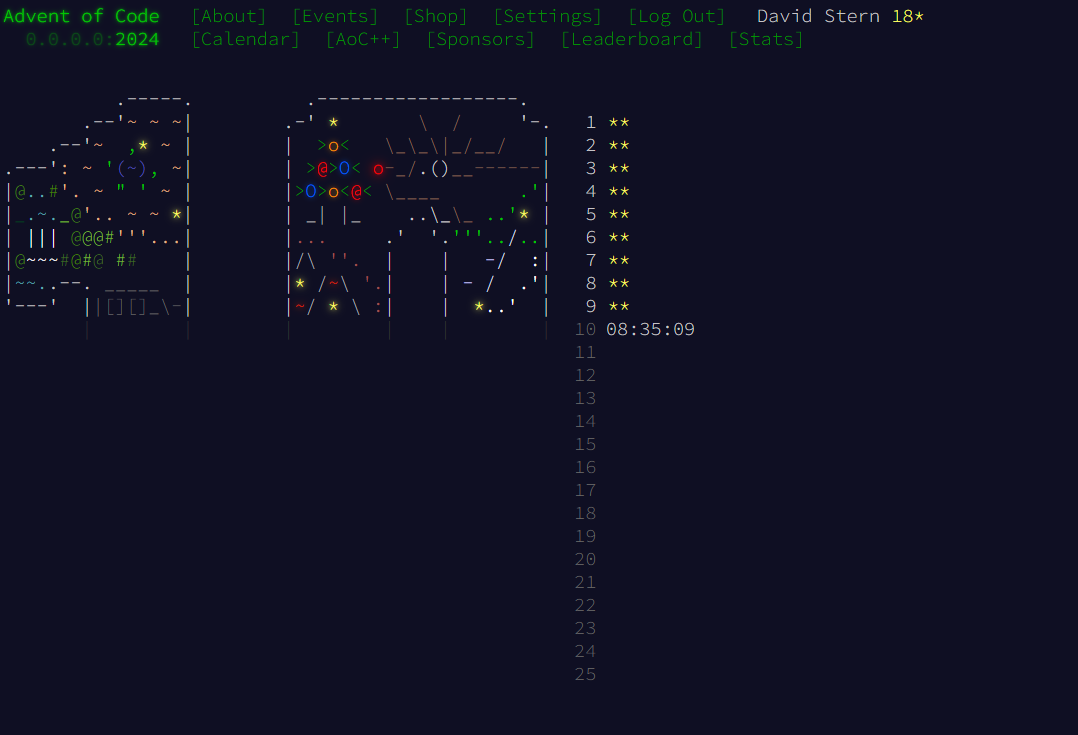
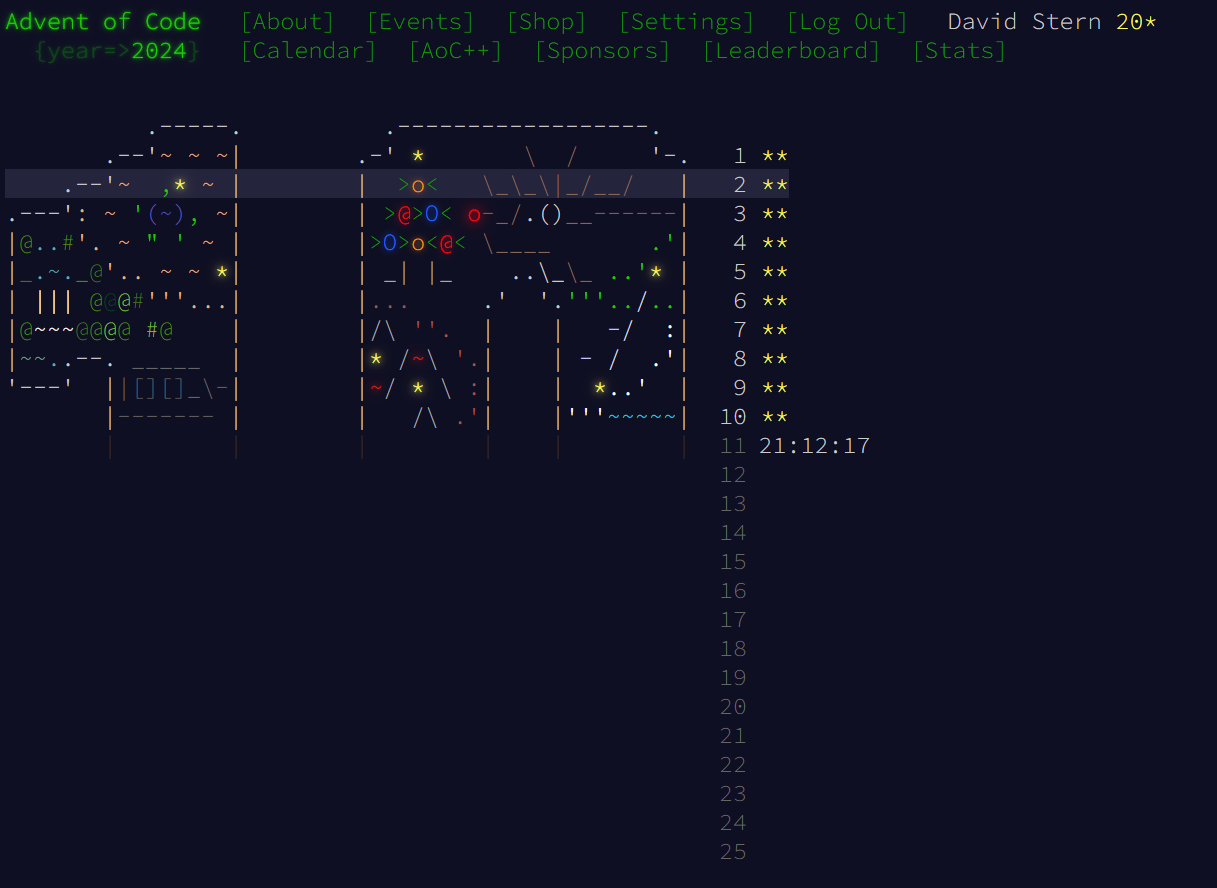
finished Day10 part2

diff --git a/src/advent_solutions/day10.rs b/src/advent_solutions/day10.rs
@@ -5,54 +5,71 @@ use super::{read_input_file, SolveAdvent};
 pub struct Day10;
 
 
+///Represents a path through the Trail Map.
+/// The unique requirement that the height always increase by 1 allows
+/// cycles to be avoided without a set to store this `TrailBlazer`'s history, 
+/// as is common in these kinds of problems.
 #[derive(Debug, Clone)]
 struct TrailBlazer {
     row: i64,
     col: i64,
-    last_number: Option<u32>,
+    ///Represents the last_height traversed on this trail path.
+    last_height: Option<u32>,
+}
+
+///The two key statistics of interest for a trail.
+struct TrailResult {
+    ///Represents the number of unique paths from height 0 to height 9
+    rank: usize,
+    ///Represents the number of different height 9's that can 
+    /// be reached starting at a given trailhead.
+    score: usize
 }
 
 impl TrailBlazer {
     fn is_inbounds(&self, trail_map: &[Vec<u32>]) -> bool {
+        //! Returns true if the `TrailBlazer` is inbounds according to its
+        //! current position
         self.row >= 0 && self.col >= 0 && self.row < trail_map.len() as i64 && self.col < trail_map[0].len() as i64
     }
-    fn clone_up(&self) -> Self {
+    fn up_one(&self) -> Self {
         TrailBlazer {
             row: self.row -1,
             col: self.col,
-            last_number: self.last_number,
+            last_height: self.last_height,
         }
     }
-    fn clone_down(&self) -> Self {
+    fn down_one(&self) -> Self {
         TrailBlazer {
             row: self.row +1,
             col: self.col,
-            last_number: self.last_number,
+            last_height: self.last_height,
         }
     }
-    fn clone_right(&self) -> Self {
+    fn right_one(&self) -> Self {
         TrailBlazer {
             row: self.row,
             col: self.col + 1,
-            last_number: self.last_number,
+            last_height: self.last_height,
         }
     }
-    fn clone_left(&self) -> Self {
+    fn left_one(&self) -> Self {
         TrailBlazer {
             row: self.row,
             col: self.col - 1,
-            last_number: self.last_number,
+            last_height: self.last_height,
         }
     }
     fn construct_all_trailheads(all_trails: &[Vec<u32>]) -> Vec<TrailBlazer> {
+        //! Build all of the starting trailheads, which are always at a height of 0.
         let mut trail_heads = Vec::new();
         for (row_number, row) in all_trails.iter().enumerate() {
             for (col_number, col) in row.iter().enumerate() {
-                if col == &0 {
+                if *col == 0 {
                     trail_heads.push(TrailBlazer {
                         row: row_number as i64,
                         col: col_number as i64,
-                        last_number: None, 
+                        last_height: None, 
                     })
                 }
             }
@@ -61,47 +78,66 @@ impl TrailBlazer {
     }
 }
 
-fn get_trailhead_score(trail_head: TrailBlazer, trail_map: &[Vec<u32>]) -> usize {
+
+fn get_trailhead_statistics(trail_head: TrailBlazer, trail_map: &[Vec<u32>]) -> TrailResult {
+    //! Starting from the passed in `trail_head`, which is at height 0, analyze the trail to generate 
+    //! a `TrailResult` using depth first search of the trail map. A successful trail goes from height 0 -> height 9,
+    //! with each trail step 1 height greater than the previous step.
     let mut trail_stack = vec![trail_head];
     let mut unique_9s_reached = HashSet::new();
+    let mut unique_trail_count = 0;
     while let Some(mut trail_blazer) = trail_stack.pop() {
         let current_trail_height = trail_map[trail_blazer.row as usize][trail_blazer.col as usize];
-        if let Some(last_height) = trail_blazer.last_number {
+        if let Some(last_height) = trail_blazer.last_height {
             if last_height + 1 != current_trail_height {
-                //Kill the path as its invalid
+                //Kill the path as its invalid (current height is not 1 greater than last height)
                 continue;
             }
         }
         if current_trail_height == 9 {
             unique_9s_reached.insert((trail_blazer.row, trail_blazer.col));
+            unique_trail_count += 1;
             continue;
         }
-        trail_blazer.last_number  = Some(current_trail_height);
+        trail_blazer.last_height  = Some(current_trail_height);
 
         let next_trail_heads = [
-            trail_blazer.clone_down(),
-            trail_blazer.clone_left(),
-            trail_blazer.clone_right(),
-            trail_blazer.clone_up()
+            trail_blazer.down_one(),
+            trail_blazer.left_one(),
+            trail_blazer.right_one(),
+            trail_blazer.up_one()
         ];
         trail_stack.extend(next_trail_heads.into_iter().filter(|trail_blazer| trail_blazer.is_inbounds(trail_map)));
 }
-unique_9s_reached.len()
+TrailResult {
+    rank: unique_trail_count,
+    score: unique_9s_reached.len()
+}
 }
 
 impl SolveAdvent for Day10 {
     fn solve_part1(path_to_file: &str) -> anyhow::Result<()> {
+        //! Sum all of the trailhead scores.
         let file_contents = read_input_file(path_to_file)?;
         let trail_map = file_contents.lines().map(|line| line.chars().flat_map(|char| char.to_digit(10)).collect::<Vec<_>>()).collect::<Vec<_>>();
         let trail_heads = TrailBlazer::construct_all_trailheads(&trail_map);
         let mut total_trailhead_score = 0;
         for trail_head in trail_heads {
-            total_trailhead_score += get_trailhead_score(trail_head, &trail_map);
+            total_trailhead_score += get_trailhead_statistics(trail_head, &trail_map).score;
         }
         println!("Total trailhead score is {}", total_trailhead_score);
         Ok(())
     }
-    fn solve_part2(_path_to_file: &str) -> anyhow::Result<()> {
+    fn solve_part2(path_to_file: &str) -> anyhow::Result<()> {
+        //! Exact same logic as part1 but add the ranks instead of the score.
+        let file_contents = read_input_file(path_to_file)?;
+        let trail_map = file_contents.lines().map(|line| line.chars().flat_map(|char| char.to_digit(10)).collect::<Vec<_>>()).collect::<Vec<_>>();
+        let trail_heads = TrailBlazer::construct_all_trailheads(&trail_map);
+        let mut total_trailhead_rank = 0;
+        for trail_head in trail_heads {
+            total_trailhead_rank += get_trailhead_statistics(trail_head, &trail_map).rank;
+        }
+        println!("Total trailhead rank is {}", total_trailhead_rank);
         Ok(())
     }
 }

diff --git a/src/main.rs b/src/main.rs
@@ -4,6 +4,6 @@ use crate::advent_solutions::SolveAdvent;
 
 fn main() -> anyhow::Result<()> {
     Day10::solve_part1("input.txt")?;
-    Day10::solve_part2("test.txt")?;
+    Day10::solve_part2("input.txt")?;
     Ok(())
 }

diff --git a/README.md b/README.md
@@ -1,5 +1,5 @@
 ## Progress Summary
-Just like last year, I am working through the 2024 [Advent of Code](https://adventofcode.com/2024) problems. I currently have `18` stars. Each day's solutions are found in the `/advent_solutions` folder under the day in question. As requested by the creator of the problems, I do not provide the input text, only the code solutions. To run a certain solution, ensure that the correct input text is placed in an `input.txt` file. Just like last year, solutions implement the following trait: 
+Just like last year, I am working through the 2024 [Advent of Code](https://adventofcode.com/2024) problems. I currently have `20` stars. Each day's solutions are found in the `/advent_solutions` folder under the day in question. As requested by the creator of the problems, I do not provide the input text, only the code solutions. To run a certain solution, ensure that the correct input text is placed in an `input.txt` file. Just like last year, solutions implement the following trait: 
 ```rust
 pub trait SolveAdvent {
     ///How to solve part1 of the days puzzle.
